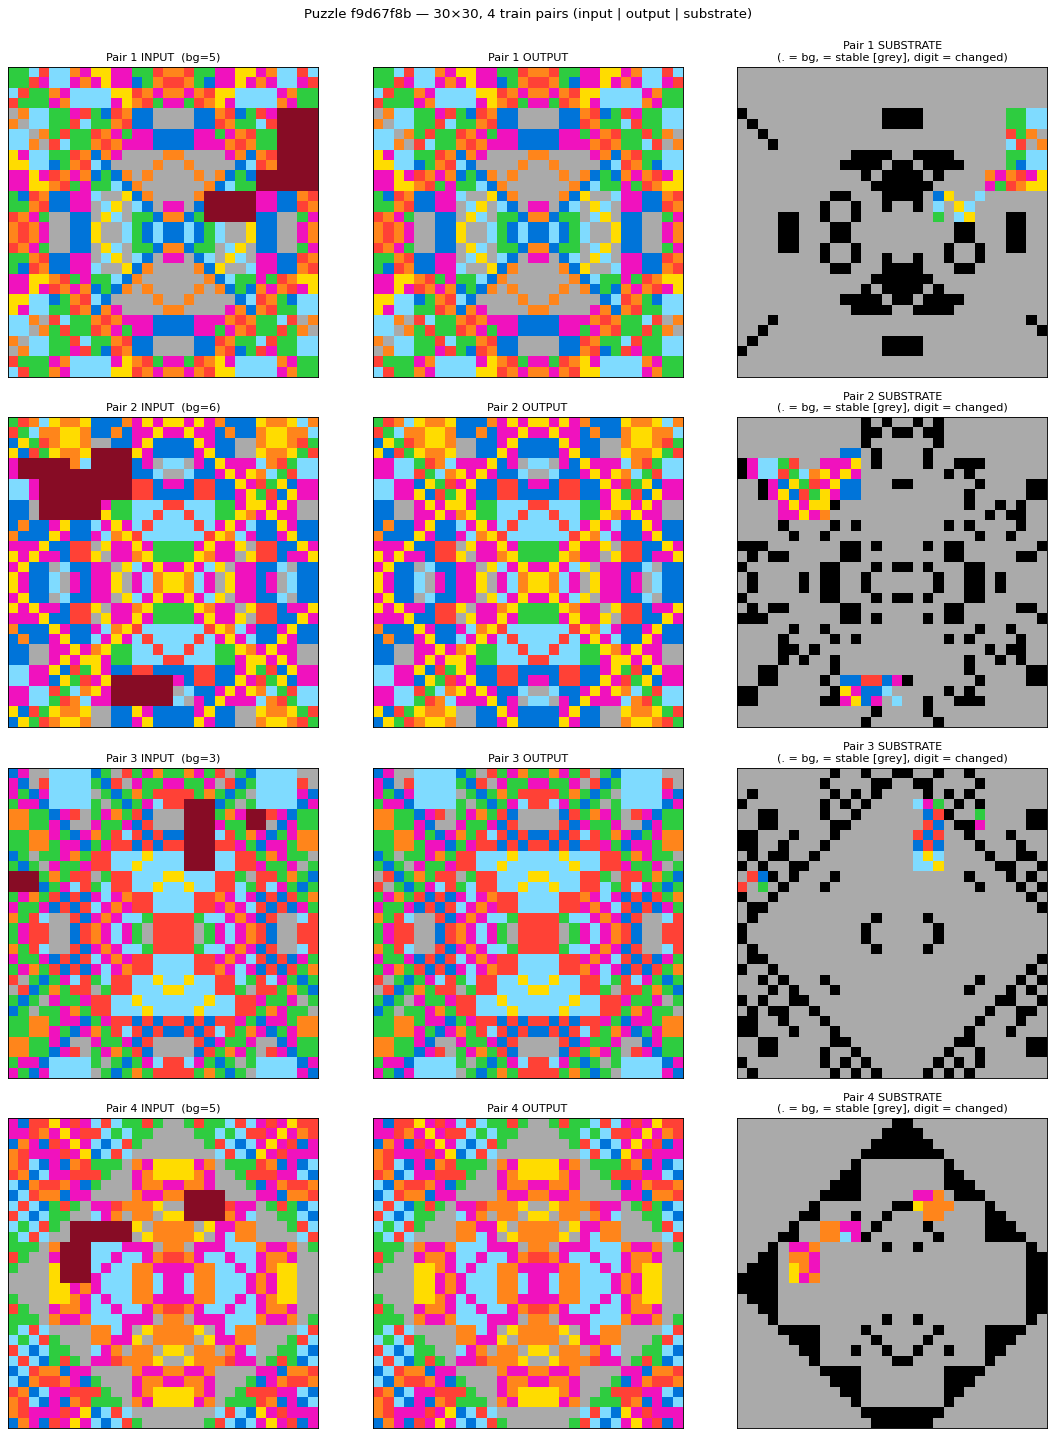
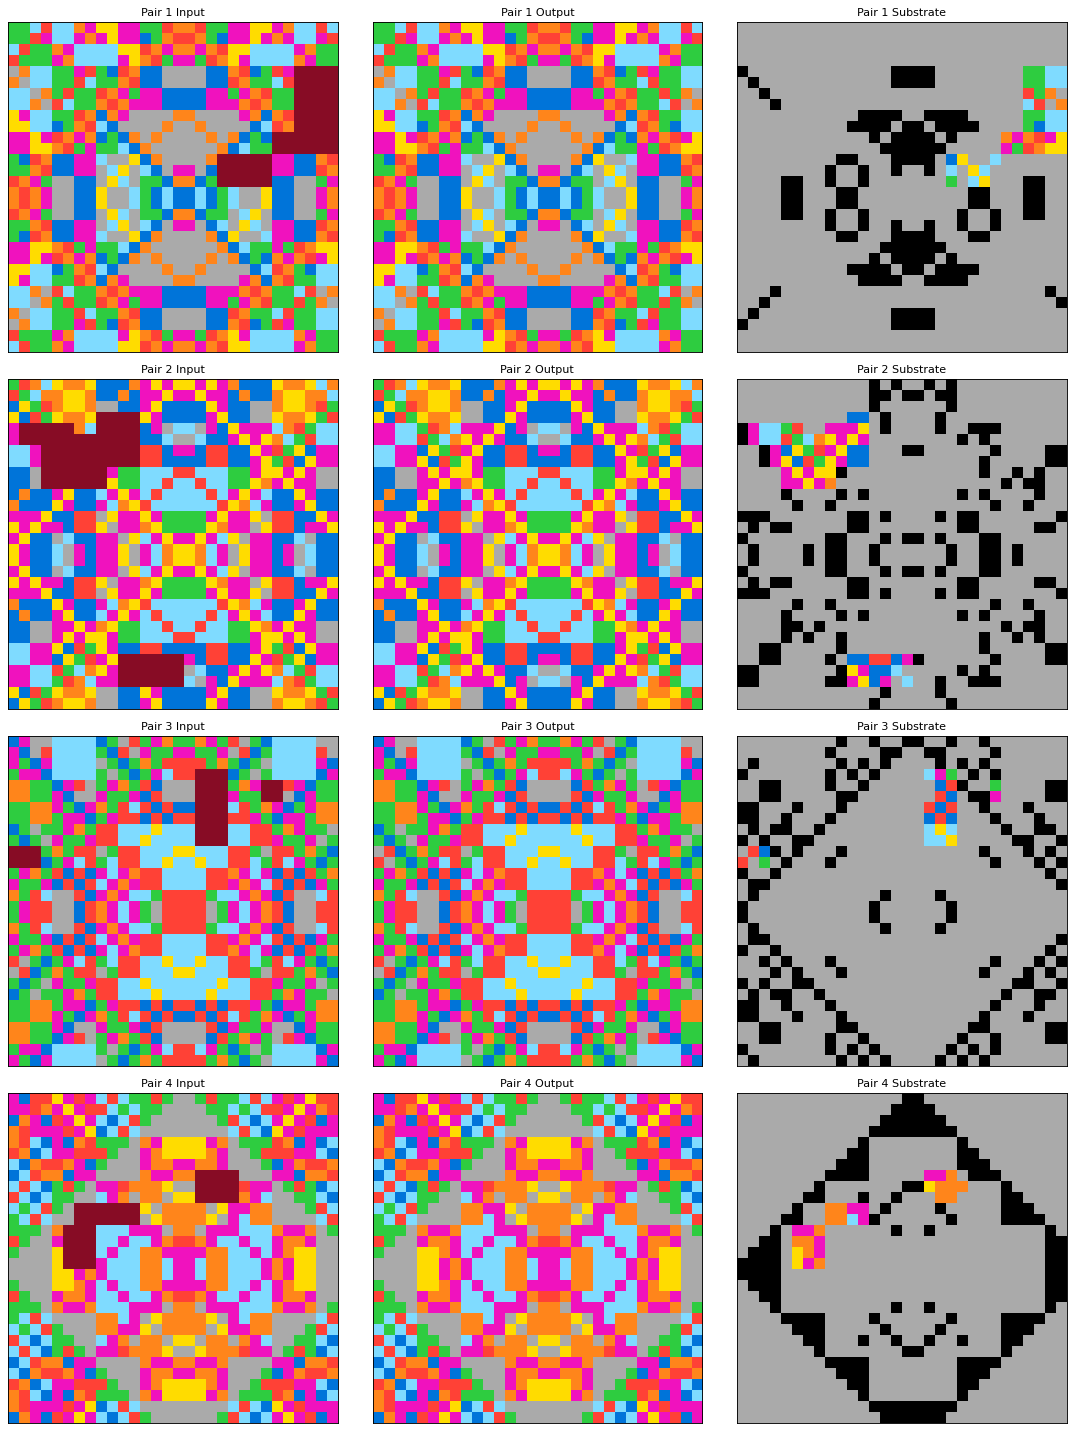
f9d67f8b case study: redact substrate explanation from figure labels

diff --git a/research/case_studies/f9d67f8b.md b/research/case_studies/f9d67f8b.md
@@ -2,9 +2,7 @@
 
 ![Puzzle f9d67f8b: input, output, and substrate for each of the 4 train pairs](f9d67f8b.png)
 
-The four rows are the four train pairs. Left column: input. Middle: output (same as input but with 9-cells filled in). Right: the substrate — grey `=` for stable cells, colored digits for cells that changed, and `.` (rendered as background) for whatever color the dense-puzzle heuristic picked as background in that pair.
-
-The substrate is where the rule becomes visible: against a sea of grey "this cell stayed the same," the colored dots are *only* the cells the rule had to fill in — and they trace out the 8-fold symmetry of the underlying pattern.
+The four rows are the four train pairs. Left: input. Middle: output. Right: substrate.
 
 ## Why this puzzle is interesting
 